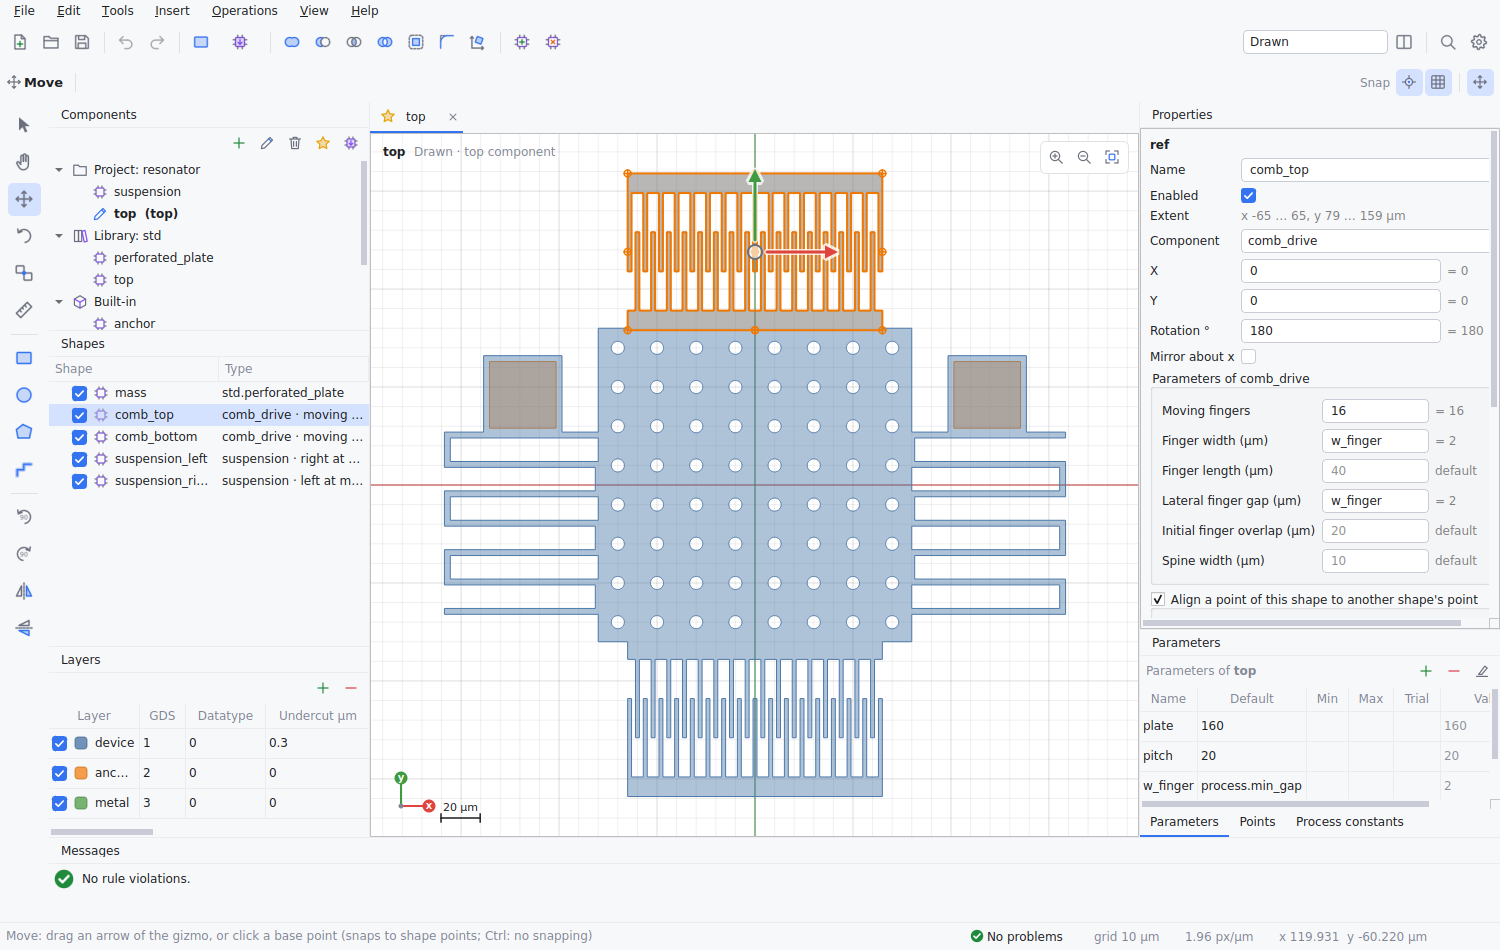
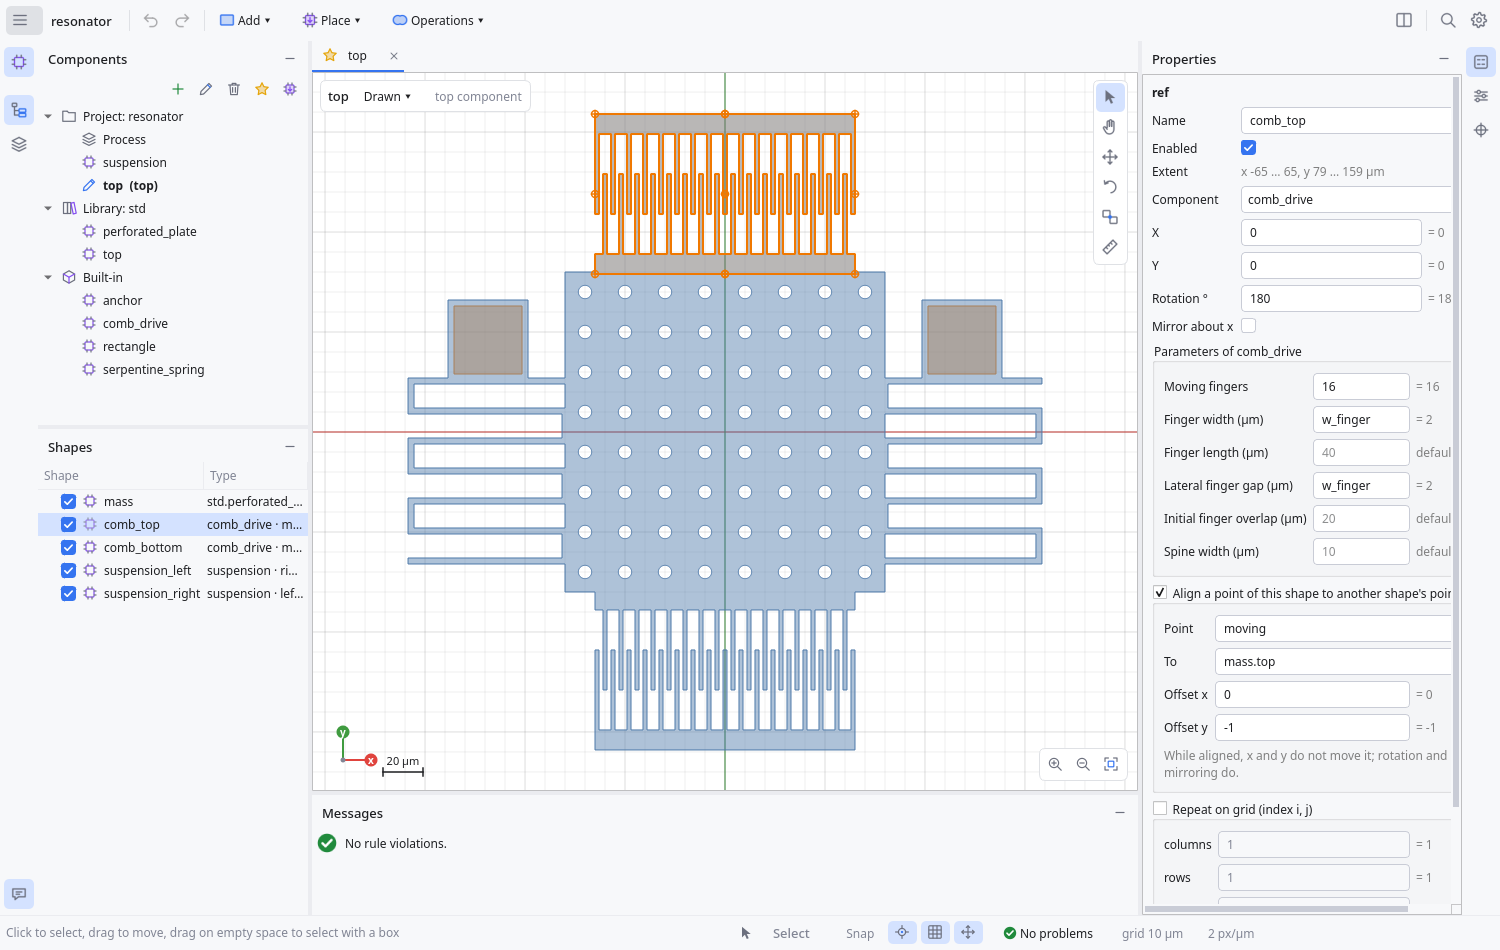
New screenshot and README for the editor layout
The screenshot is rendered from the app (offscreen, the resonator
example). The README's GUI section describes the toolbar row, the tool
windows and stripes, the canvas modes, the right-click menu, the status
bar's tool options and the Process tab. The package layout now lists
core/shapes/ and editing/ (from the earlier refactor steps), and
Extending explains adding a shape kind, an edit command and a tool
window.

diff --git a/README.md b/README.md
@@ -140,10 +140,12 @@ MATLAB with `system(...)`.
 
 ## GUI
 
-The window follows JetBrains IDEs for the editor parts (tabs, tool windows,
-settings, Find Action) and Blender/Unity for the geometry (tool palette, tool
-options, gizmos, coloured axes). Icons are small SVG drawings coloured for the
-light or dark theme (`gui/icons.py`).
+The window follows JetBrains IDEs for the editor parts (one toolbar row,
+tool windows opened from stripes, tabs, settings, Find Action) and
+Blender/Unity for the geometry (canvas modes, gizmos, coloured axes). Icons
+are small SVG drawings coloured for the light or dark theme (`gui/icons.py`).
+Every menu is under **☰** at the left of the toolbar; the menu paths below
+(e.g. **View → Dark canvas**) are inside it.
 
 - **Look**: a light and a dark theme (**File → Settings… → Appearance**, or
   follow the system). The canvas follows the interface or keeps its own light
@@ -155,13 +157,22 @@ light or dark theme (`gui/icons.py`).
   user.
 - **Find Action** (Ctrl+Shift+A, the magnifier in the toolbar): type part of a
   command's name, Enter runs it.
-- **Toolbars**: file and history, insert, operations, make/unpack component,
-  then the view mode, split, Find Action and settings. Under it, the **tool
-  options** of the active tool (as in Blender): the drawing layer and path
-  width for the drawing tools, the angle step for Rotate, and on the right the
-  snapping toggles (shape points, grid) and the gizmo toggle.
-- **Status bar**: the current hint, then problems (click to open Messages),
-  grid step, zoom and cursor position.
+- **Toolbar** (one row): ☰, the project, undo and redo, then **Add ▾**
+  (primitives: rectangle, circle, polygon and path start their drawing tool,
+  an arc is added as a default one), **Place ▾** (components) and
+  **Operations ▾**; on the right split view, Find Action and settings. New,
+  open, save and export are in **☰ → File** (Ctrl+N, Ctrl+O, Ctrl+S).
+- **Tool windows**, opened and closed from the stripes on the window edges,
+  as in IntelliJ: on the left stripe Components at the top, then Shapes and
+  Layers, and Messages (the bottom panel) at the bottom; on the right stripe
+  Properties, Parameters and Points. Each place shows one window at a time;
+  the left side splits when Components and Shapes (or Layers) are both open.
+  Which windows are open and their sizes are remembered. **View → Panels**
+  lists them too.
+- **Status bar**: the current hint, the active tool and its options (the
+  drawing layer and path width while drawing, the angle step for Rotate), the
+  snapping toggles (shape points, grid) and the gizmo toggle, then problems
+  (click to open Messages), grid step, zoom and cursor position.
 - **Tabs**: every component opens in its own tab, with its own zoom, selection
   and view mode; the panels show the current tab. Double-click a component in
   the Components panel, or a placed component in the canvas or the Shapes
@@ -189,14 +200,23 @@ light or dark theme (`gui/icons.py`).
   or disable a node; Ctrl/Shift-click selects several. Boolean operands appear
   under A and B, and each alignment is shown (e.g. `bottom at spring.end`).
 - **Canvas**: wheel to zoom, middle or right drag (or Space + drag, in any
-  tool) to pan, F to fit; the buttons in the top-right corner zoom and fit
-  too. The selection is outlined in orange with its alignment points, the
+  tool) to pan, F to fit; the buttons in the bottom-right corner zoom and fit
+  too, and the **canvas modes** (Select, Hand, Move, Rotate, Align, Measure)
+  float in the top-right corner. The selection is outlined in orange with its alignment points, the
   shape under the cursor is outlined dashed (what a click would select), rule
   violations are boxed in red and the component's own points are marked in
   green. The x axis is red and the y axis green; the corner shows an axis
-  indicator and a scale bar, and the top left what is shown (component, view
-  mode, read-only). **View → Overlays** switches each of these on or off. The
-  View box switches between drawn, as-etched and etch-compensated geometry.
+  indicator and a scale bar, and the top left what is shown (component,
+  read-only) with the tab's **view mode**: click it to switch between drawn,
+  as-etched and etch-compensated geometry. **View → Overlays** switches each
+  of these on or off.
+- **Right-click** in the canvas (a click; a right drag pans): **Add** a
+  primitive with its first point where you clicked, **Place component**, and
+  for the selection (the shape under the cursor is selected first) Combine
+  (union, subtract, intersect, XOR), offset, fillet, transform, layer map,
+  make or unpack component, rotate 90° and mirror, duplicate and delete.
+  Entries that do not apply are greyed out. The keyboard's menu key opens it
+  too.
 - **Properties**: generated from the selected node's schema. Any numeric field
   takes a number or an expression, with its value shown beside it. For a
   component the component's own parameters are listed, with their declared
@@ -207,10 +227,11 @@ light or dark theme (`gui/icons.py`).
   saved or undone, and only affects that component's own tab (the components
   that place it still pass their own values). It also works on library and
   built-in components.
-- **Points** (tabbed with Parameters): the points the edited component
-  declares for whoever places it.
-- **Tools** (the palette on the left; a tool stays active until another is
-  chosen, Esc cancels what it is doing and, pressed again, returns to Select):
+- **Points**: the points the edited component declares for whoever places it.
+- **Tools** (the canvas modes in the canvas's corner; the drawing tools start
+  from **Add**, the right-click menu or their shortcut. A tool stays active
+  until another is chosen; Esc cancels what it is doing and, pressed again,
+  returns to Select):
   - **Select** (V): click to select (Ctrl/Shift to add), drag the selection to
     move it, drag on empty space to select with a box. A drag snaps to the
     grid, or a point of the moved shapes to another shape's point (Ctrl: no
@@ -225,7 +246,7 @@ light or dark theme (`gui/icons.py`).
   - **Rotate** (R): drag the ring around the selection to rotate about its
     centre, or click a pivot, then set the angle (15° steps by default; Ctrl:
     free). **Rotate 90°** (Ctrl+R, Ctrl+Shift+R) and **Mirror** left-right or
-    up-down act about the selection's centre.
+    up-down (right-click menu, or **Edit**) act about the selection's centre.
   - **Align** (A, Ctrl+L): click a shape, one of its points, then the point to
     put it on. Fine-tune the offset in Properties; **Edit → Remove alignment**
     takes it off and leaves the shape where it is.
@@ -238,9 +259,9 @@ light or dark theme (`gui/icons.py`).
     or (for a polygon) a click on the first point finishes, Backspace takes
     back the last point. Shift keeps segments at 0°, 45° or 90°.
 
-  The drawing tools draw on the layer chosen in the tool options (clicking a
-  layer in the Layers panel also chooses it); paths get the **Width** next to
-  it. Points snap to shape points, else to the grid
+  The drawing tools draw on the layer chosen in the status bar (clicking a
+  layer in the Layers window also chooses it); paths get the **Width** next
+  to it. Points snap to shape points, else to the grid
   (Ctrl: no snapping). A drawn shape is added at the top of the edited
   component with a fresh name, selected, and editable like any other; the
   numbers can be turned into expressions in Properties afterwards.
@@ -252,13 +273,15 @@ light or dark theme (`gui/icons.py`).
   so rotating one wraps it in a transform that takes over its name.
   Expressions stay parametric: `plate/2 + 39` moved by 11 becomes
   `plate/2 + 50`. Each move or rotation is one undo step.
-- **Layers**: visibility, colour, GDS numbers, undercut, minimum width and
-  spacing.
-- **Process constants** (tabbed with Parameters): values available in every
-  expression as `process.<name>`.
-- **View → Panels** reopens any panel that was closed.
-- **Operations** (Union, Subtract, Intersect, XOR, Offset, Fillet, Layer map,
-  Transform) wrap the selected sibling shapes in a new operation node; **Edit →
+- **Layers**: which layers are shown, their colours and GDS numbers.
+- **Process** (the first item of the project in Components, or **View →
+  Process**): a tab with the process constants, available in every
+  expression as `process.<name>`, and the layer definitions: GDS layer and
+  datatype, undercut, minimum width and spacing. Edits are undoable like any
+  other.
+- **Operations** (Operations ▾ or the right-click menu: Union, Subtract,
+  Intersect, XOR, Offset, Fillet, Layer map, Transform) wrap the selected
+  sibling shapes in a new operation node; **Edit →
   Unwrap** reverses it. **Make component** (Ctrl+K) moves the selection into a
   new component. The parameters it uses become the new component's parameters,
   so the geometry does not change; a single transform becomes a component
@@ -359,7 +382,7 @@ code. MATLAB can use the same API through its Python interface
 |---|---|
 | `core/project.py` | `Project`, `Library`, `Instance`: components, name resolution, parameters |
 | `core/compiler.py` | `Compiler` and `Session`: fingerprints, cache, rendering |
-| `core/shapes.py` | The shape tree: primitives, references, operations, alignment, evaluation |
+| `core/shapes/` | The shape tree: one module per shape kind in `kinds/`, their registry, alignment points, evaluation, rewriting |
 | `core/user_component.py` | `ComponentDef`, `ParamDef` and their adapter to `Component` |
 | `core/component.py` | `Component` base class, `Geometry`, built-in component registry |
 | `core/process.py` | `Process`, `Layer`, process constants |
@@ -369,13 +392,31 @@ code. MATLAB can use the same API through its Python interface
 | `storage/` | Project folders (canonical YAML) and the legacy SQLite importer |
 | `export/` | Exporter plugins: GDSII, OASIS, DXF |
 | `cli.py` | `mems-sketch-cli` |
-| `gui/` | PySide6 frontend: document (transactions, undo), tabs, canvas and tools, panels, property editor, editor state, settings, theme and icons |
+| `editing/` | `EditSession`: transactions, undo, files, and the edit commands (components, shapes, moves, points, parameters, process) |
+| `gui/` | PySide6 frontend: the window (actions and menus, toolbar, tool windows, status bar), tabs, canvas and tools, panels, the Process tab, property editor, editor state, settings, theme and icons |
 
 ## Extending
 
 **New built-in component:** subclass `Component`, define a nested `Params`
 model and `build()`, and decorate the class with `@register_component`.
 Override `points()` to offer alignment points.
+
+**New shape kind:** write a module in `core/shapes/kinds/` with a `Node`
+subclass (`Primitive` or `Operation` for the usual defaults) that implements
+`render` and, as needed, `moved`, `placement`, `summary`, `default` or `wrap`,
+and add the class to `KINDS` in `kinds/__init__.py`. `tests/test_shape_kinds.py`
+then checks it (YAML round trip, rendering, moving); the GUI's shape tree and
+property panel pick it up without changes.
+
+**New edit command:** a method on one of the command groups in `editing/`
+(`components.py`, `nodes.py`, `moves.py`, ...) that calls `self.session.edit`
+with a description and a change; it gets undo and rollback, and is usable from
+scripts at once. To offer it in the GUI, add an action in `gui/actions.py` and
+put it in a menu, the toolbar or the right-click menu.
+
+**New tool window:** `window.tool_windows.add(name, title, icon, widget,
+anchor)` in `MainWindow._build_tool_windows`, with an anchor of `left-top`,
+`left-bottom`, `bottom` or `right`.
 
 **New export format:** write a class with `format_name`, `file_extension` and
 `export(project, geometry, path)`. Register it either with `@register_exporter`
